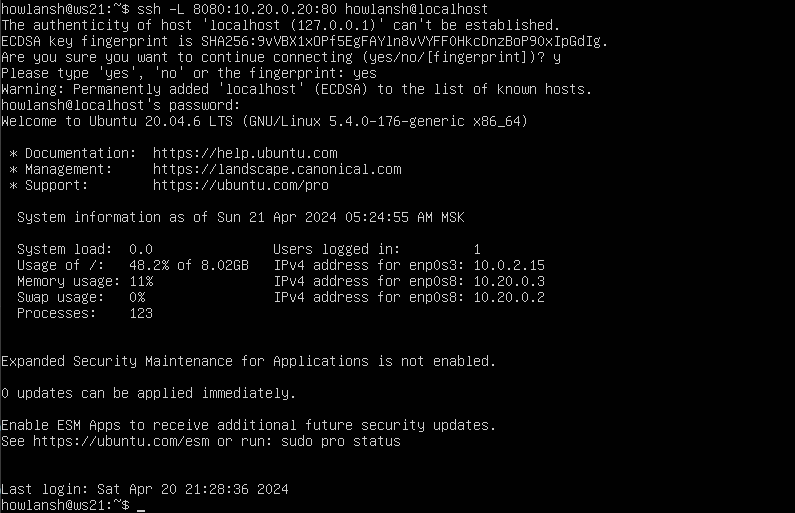
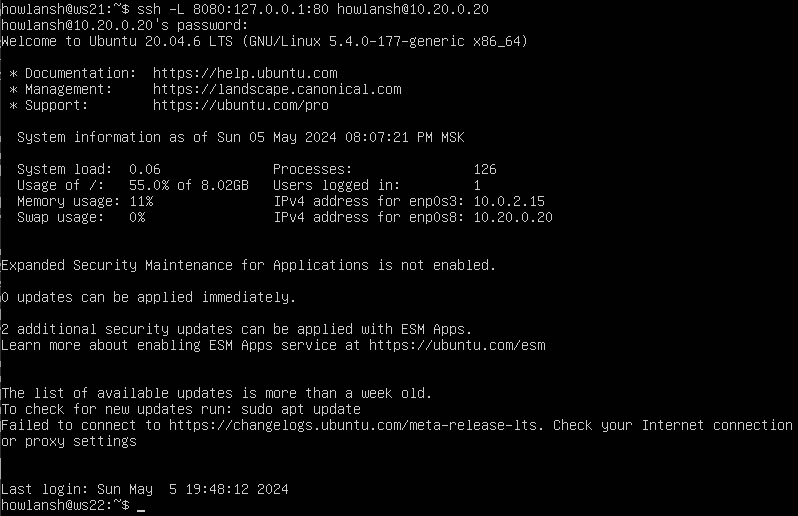
fix Part 8

diff --git a/src/README.md b/src/README.md
@@ -191,11 +191,11 @@
 ## Part 8. Допополнительно. Знакомство с SSH Tunnel
 * Запускаем веб-сервер Apache на ws22 только на localhost.
 * ![](./screenshots/img_8.1.png)
-* Воспользуемся Local TCP forwarding с ws21 до ws22, чтобы получить доступ к веб-серверу на ws22 с ws21. Команда "ssh -L 8080:10.20.0.20:80 howlansh@localhost".
+* Воспользуемся Local TCP forwarding с ws21 до ws22, чтобы получить доступ к веб-серверу на ws22 с ws21. Команда "ssh -L 8080:127.0.0.1:80 howlansh@10.20.0.20".
 * ![](./screenshots/img_8.2.png)
-* Для проверки выполним команду "telnet 127.0.0.1 [локальный порт]".
+* Для проверки откроем новое окно терминала (Alt + F2) и выполним команду "telnet 127.0.0.1 [локальный порт]".
 * ![](./screenshots/img_8.3.png)
-* Воспользуемся Remote TCP forwarding c ws11 до ws22, чтобы получить доступ к веб-серверу на ws22 с ws11. Команда "ssh -R 8080:10.20.0.20:80 howlansh@localhost".
+* Воспользуемся Remote TCP forwarding c ws11 до ws22, чтобы получить доступ к веб-серверу на ws22 с ws11. Команда "ssh -R 8080:127.0.0.1:80 howlansh@10.10.0.3".
 * ![](./screenshots/img_8.4.png)
 * Проверка той же командой.
 * ![](./screenshots/img_8.5.png)
